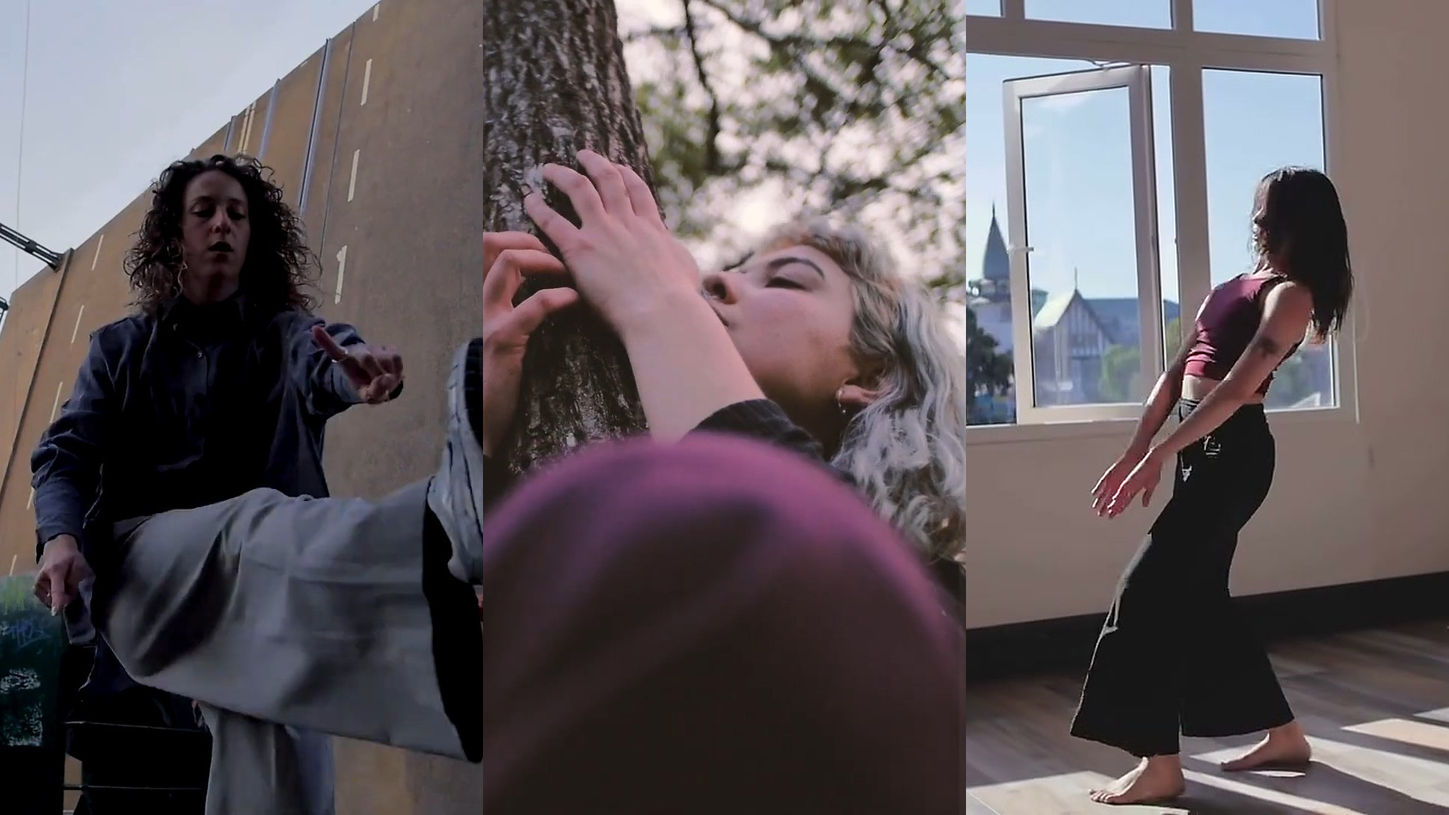
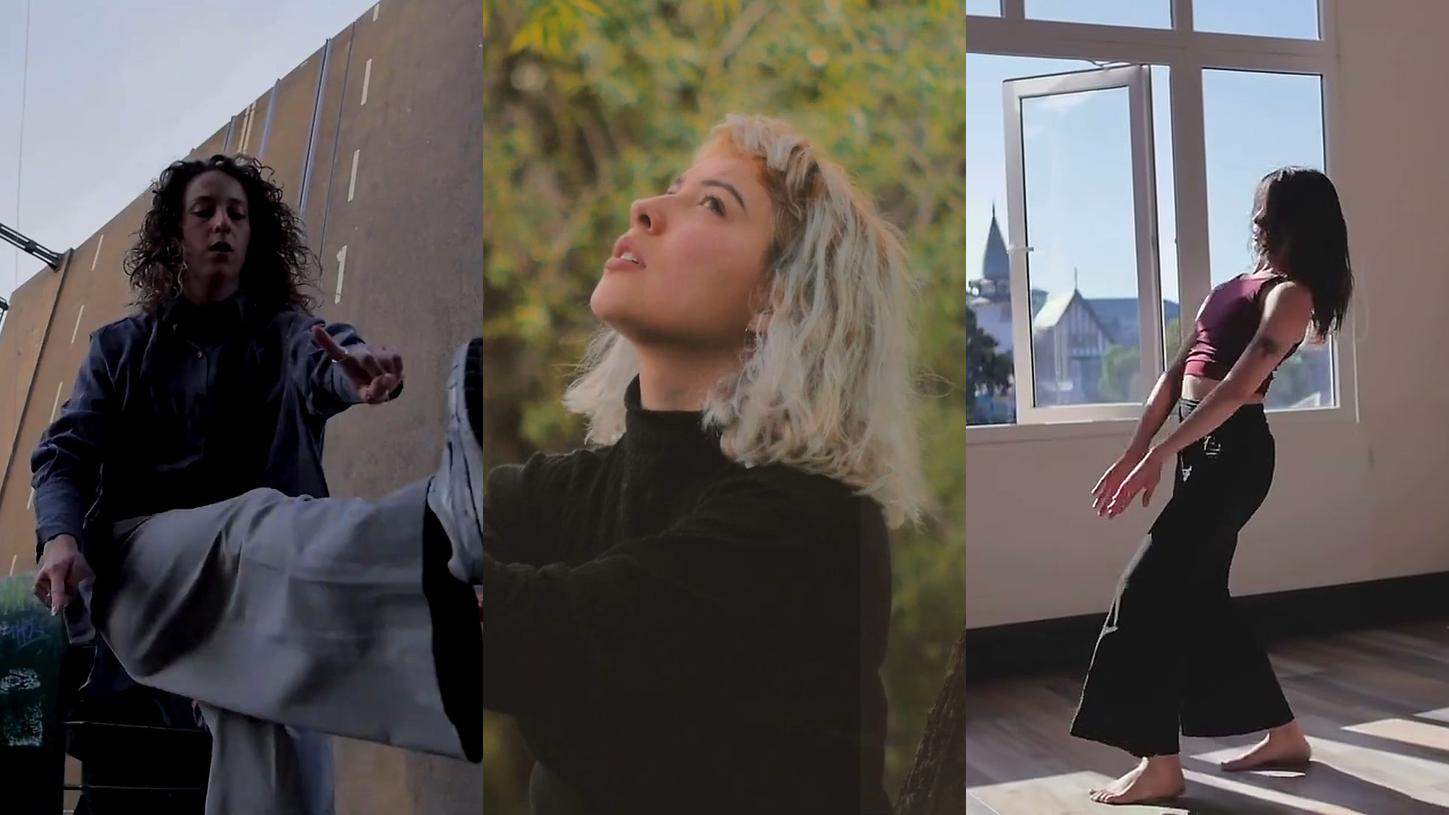
The Session: portada sin la mancha en primer plano y pensada para celular
- Portada: el panel de Nina pasa a un plano limpio, su cara a foco y sin
  la mancha desenfocada en primer plano.
- En el celular la portada ya no se recorta: los tres paneles (Marlie,
  Nina, Matilde) pasan uno a uno en fundido, cada uno a pantalla entera.
- Slide: la imagen de Nina con la mano en primer plano se cambia por la
  de ella tocando el arbol.

Changed region(s): [[0.3125, 0.0, 0.6875, 0.7944], [0.5938, 0.8556, 0.6562, 1.0], [0.3125, 0.8861, 0.3438, 0.9472]]

diff --git a/de/short-films/index.html b/de/short-films/index.html
@@ -14,7 +14,7 @@
 <link rel="preconnect" href="https://fonts.googleapis.com">
 <link rel="preconnect" href="https://fonts.gstatic.com" crossorigin>
 <link href="https://fonts.googleapis.com/css2?family=Jost:ital,wght@0,200;0,300;0,400;0,500;0,700;1,300&display=swap" rel="stylesheet">
-<link rel="stylesheet" href="../../style.css?v=107">
+<link rel="stylesheet" href="../../style.css?v=108">
 <script type="application/ld+json">[{"@type": "VideoObject", "name": "The Heart Is Not a Bomb", "description": "A group of rebels crosses through the building of the Ministry of Culture of Chile, while the former Minister Paulina Urrutia gives voice to a reflection on the function of art in society, suggesting that the artistic phenomenon allows us to recognize ourselves and activate a powerful internal force capable of transforming reality", "thumbnailUrl": "https://deusexmachinafilms.art/img/corazon.jpg", "uploadDate": "2025-11-27", "embedUrl": "https://www.youtube.com/embed/NNtd6buiv-U", "url": "https://deusexmachinafilms.art/de/short-films/#corazon", "publisher": {"@type": "Organization", "name": "dEUSeXmACHINA films", "url": "https://deusexmachinafilms.art/"}, "director": {"@type": "Person", "name": "Felipe Díaz Galarce"}, "inLanguage": "es", "duration": "PT14M44S"}, {"@type": "VideoObject", "name": "Explorers of La Redonda", "description": "In the small town of Puerto Octay, in southern Chile, every morning the students of La Redonda School begin their day with meditation. Their desire to learn through play and imagination leads them to create a magic potion that transports them to a natural sanctuary.", "thumbnailUrl": "https://deusexmachinafilms.art/img/exploradores.jpg", "uploadDate": "2025-03-03", "embedUrl": "https://www.youtube.com/embed/zlJKGHxcm4c", "url": "https://deusexmachinafilms.art/de/short-films/#exploradores", "publisher": {"@type": "Organization", "name": "dEUSeXmACHINA films", "url": "https://deusexmachinafilms.art/"}, "director": {"@type": "Person", "name": "Felipe Díaz Galarce"}, "inLanguage": "es", "duration": "PT9M6S"}, {"@type": "VideoObject", "name": "To Dwell", "description": "MORAR is an invitation to stay, to remain and to allow what is already happening to pass through us. We allow ourselves to be moved by the sacred, by the whispering silence of mystery; and then, the question arises, how much distance is there between Nature and us? Does it even exist?…", "thumbnailUrl": "https://deusexmachinafilms.art/img/morar.jpg", "uploadDate": "2025-02-24", "embedUrl": "https://www.youtube.com/embed/IFP798ZNQTM", "url": "https://deusexmachinafilms.art/de/short-films/#morar", "publisher": {"@type": "Organization", "name": "dEUSeXmACHINA films", "url": "https://deusexmachinafilms.art/"}, "director": {"@type": "Person", "name": "Felipe Díaz Galarce"}, "inLanguage": "es", "duration": "PT7M53S"}, {"@type": "VideoObject", "name": "Ahora Somos Nosotres", "description": "Three dancers awaken to new surroundings and venture into unknown territory among the natural and historic landmarks of the island of Chiloé, in southern Chile: a journey to find home, accompanied by the music of Pájaros Kiltros.", "thumbnailUrl": "https://deusexmachinafilms.art/img/nosotres.jpg", "uploadDate": "2023-02-14", "embedUrl": "https://player.vimeo.com/video/798903970", "url": "https://deusexmachinafilms.art/de/short-films/#ahora-somos-nosotres", "publisher": {"@type": "Organization", "name": "dEUSeXmACHINA films", "url": "https://deusexmachinafilms.art/"}, "director": {"@type": "Person", "name": "Felipe Díaz Galarce"}, "inLanguage": "es", "duration": "PT9M56S"}, {"@type": "VideoObject", "name": "Ecdysis: Actions for Shedding Skin. Liquefy", "description": "Short essay film about human transformation in the digital age. Recorded during the Covid 19 pandemic in Valdivia and Valparaiso, Chile, the film presents a group of humans dancing in nature and the city. They are the result of the virtual experiment of a group of stage researchers who sought to approach the ecdysis and metamorphosis of insects, as a metaphor for the profound cultural transformation of society by integrating virtuality into everyday life, a questioning of the notion of presence. The voice-over of the process of how a butterfly is born intersects with another voice asking a series of questions about who we are and how we participate in society", "thumbnailUrl": "https://deusexmachinafilms.art/img/licuar.jpg", "uploadDate": "2025-03-03", "embedUrl": "https://www.youtube.com/embed/FqOBFxX5uBc", "url": "https://deusexmachinafilms.art/de/short-films/#ecdisis-licuar", "publisher": {"@type": "Organization", "name": "dEUSeXmACHINA films", "url": "https://deusexmachinafilms.art/"}, "director": {"@type": "Person", "name": "Felipe Díaz Galarce"}, "inLanguage": "es", "duration": "PT9M19S"}, {"@type": "VideoObject", "name": "Escape", "description": "This documentary-style dance piece invites us to reflect on and address the dangers of free market capitalism, corrupt leadership, and COVID as a response to social revolution.", "thumbnailUrl": "https://deusexmachinafilms.art/img/escape.jpg", "uploadDate": "2025-03-03", "embedUrl": "https://www.youtube.com/embed/EfCxbCzm9sE", "url": "https://deusexmachinafilms.art/de/short-films/#escape", "publisher": {"@type": "Organization", "name": "dEUSeXmACHINA films", "url": "https://deusexmachinafilms.art/"}, "director": {"@type": "Person", "name": "Felipe Díaz Galarce"}, "inLanguage": "es", "duration": "PT14M18S"}, {"@type": "VideoObject", "name": "misoginia Pandora", "description": "Pandora is trapped in the city, she wants to free herself from the Box of All Evils. Pandora reflects on consumer society, she decides to break the normal course of the spaces where goods are traded, her weapon is her body, her dance.", "thumbnailUrl": "https://deusexmachinafilms.art/img/pandora.jpg", "uploadDate": "2025-03-03", "embedUrl": "https://www.youtube.com/embed/5uiqnHk1Ly8", "url": "https://deusexmachinafilms.art/de/short-films/#pandora", "publisher": {"@type": "Organization", "name": "dEUSeXmACHINA films", "url": "https://deusexmachinafilms.art/"}, "director": {"@type": "Person", "name": "Felipe Díaz Galarce"}, "inLanguage": "es", "duration": "PT4M46S"}]</script>
 <link rel="alternate" hreflang="en" href="https://deusexmachinafilms.art/short-films/">
 <link rel="alternate" hreflang="de" href="https://deusexmachinafilms.art/de/short-films/">
@@ -205,7 +205,7 @@
 </main>
 
 <footer>© <span id="year">2026</span> dEUSeXmACHINA Films — Chile · Österreich</footer>
-<script src="../../traduccion.js?v=107"></script>
-<script src="../../script.js?v=107"></script>
+<script src="../../traduccion.js?v=108"></script>
+<script src="../../script.js?v=108"></script>
 </body>
 </html>

diff --git a/short-films/index.html b/short-films/index.html
@@ -14,7 +14,7 @@
 <link rel="preconnect" href="https://fonts.googleapis.com">
 <link rel="preconnect" href="https://fonts.gstatic.com" crossorigin>
 <link href="https://fonts.googleapis.com/css2?family=Jost:ital,wght@0,200;0,300;0,400;0,500;0,700;1,300&display=swap" rel="stylesheet">
-<link rel="stylesheet" href="../style.css?v=107">
+<link rel="stylesheet" href="../style.css?v=108">
 <script type="application/ld+json">[{"@type": "VideoObject", "name": "The Heart Is Not a Bomb", "description": "A group of rebels crosses through the building of the Ministry of Culture of Chile, while the former Minister Paulina Urrutia gives voice to a reflection on the function of art in society, suggesting that the artistic phenomenon allows us to recognize ourselves and activate a powerful internal force capable of transforming reality", "thumbnailUrl": "https://deusexmachinafilms.art/img/corazon.jpg", "uploadDate": "2025-11-27", "embedUrl": "https://www.youtube.com/embed/NNtd6buiv-U", "url": "https://deusexmachinafilms.art/short-films/#corazon", "publisher": {"@type": "Organization", "name": "dEUSeXmACHINA films", "url": "https://deusexmachinafilms.art/"}, "director": {"@type": "Person", "name": "Felipe Díaz Galarce"}, "inLanguage": "es", "duration": "PT14M44S"}, {"@type": "VideoObject", "name": "Explorers of La Redonda", "description": "In the small town of Puerto Octay, in southern Chile, every morning the students of La Redonda School begin their day with meditation. Their desire to learn through play and imagination leads them to create a magic potion that transports them to a natural sanctuary.", "thumbnailUrl": "https://deusexmachinafilms.art/img/exploradores.jpg", "uploadDate": "2025-03-03", "embedUrl": "https://www.youtube.com/embed/zlJKGHxcm4c", "url": "https://deusexmachinafilms.art/short-films/#exploradores", "publisher": {"@type": "Organization", "name": "dEUSeXmACHINA films", "url": "https://deusexmachinafilms.art/"}, "director": {"@type": "Person", "name": "Felipe Díaz Galarce"}, "inLanguage": "es", "duration": "PT9M6S"}, {"@type": "VideoObject", "name": "To Dwell", "description": "MORAR is an invitation to stay, to remain and to allow what is already happening to pass through us. We allow ourselves to be moved by the sacred, by the whispering silence of mystery; and then, the question arises, how much distance is there between Nature and us? Does it even exist?…", "thumbnailUrl": "https://deusexmachinafilms.art/img/morar.jpg", "uploadDate": "2025-02-24", "embedUrl": "https://www.youtube.com/embed/IFP798ZNQTM", "url": "https://deusexmachinafilms.art/short-films/#morar", "publisher": {"@type": "Organization", "name": "dEUSeXmACHINA films", "url": "https://deusexmachinafilms.art/"}, "director": {"@type": "Person", "name": "Felipe Díaz Galarce"}, "inLanguage": "es", "duration": "PT7M53S"}, {"@type": "VideoObject", "name": "Ahora Somos Nosotres", "description": "Three dancers awaken to new surroundings and venture into unknown territory among the natural and historic landmarks of the island of Chiloé, in southern Chile: a journey to find home, accompanied by the music of Pájaros Kiltros.", "thumbnailUrl": "https://deusexmachinafilms.art/img/nosotres.jpg", "uploadDate": "2023-02-14", "embedUrl": "https://player.vimeo.com/video/798903970", "url": "https://deusexmachinafilms.art/short-films/#ahora-somos-nosotres", "publisher": {"@type": "Organization", "name": "dEUSeXmACHINA films", "url": "https://deusexmachinafilms.art/"}, "director": {"@type": "Person", "name": "Felipe Díaz Galarce"}, "inLanguage": "es", "duration": "PT9M56S"}, {"@type": "VideoObject", "name": "Ecdysis: Actions for Shedding Skin. Liquefy", "description": "Short essay film about human transformation in the digital age. Recorded during the Covid 19 pandemic in Valdivia and Valparaiso, Chile, the film presents a group of humans dancing in nature and the city. They are the result of the virtual experiment of a group of stage researchers who sought to approach the ecdysis and metamorphosis of insects, as a metaphor for the profound cultural transformation of society by integrating virtuality into everyday life, a questioning of the notion of presence. The voice-over of the process of how a butterfly is born intersects with another voice asking a series of questions about who we are and how we participate in society", "thumbnailUrl": "https://deusexmachinafilms.art/img/licuar.jpg", "uploadDate": "2025-03-03", "embedUrl": "https://www.youtube.com/embed/FqOBFxX5uBc", "url": "https://deusexmachinafilms.art/short-films/#ecdisis-licuar", "publisher": {"@type": "Organization", "name": "dEUSeXmACHINA films", "url": "https://deusexmachinafilms.art/"}, "director": {"@type": "Person", "name": "Felipe Díaz Galarce"}, "inLanguage": "es", "duration": "PT9M19S"}, {"@type": "VideoObject", "name": "Escape", "description": "This documentary-style dance piece invites us to reflect on and address the dangers of free market capitalism, corrupt leadership, and COVID as a response to social revolution.", "thumbnailUrl": "https://deusexmachinafilms.art/img/escape.jpg", "uploadDate": "2025-03-03", "embedUrl": "https://www.youtube.com/embed/EfCxbCzm9sE", "url": "https://deusexmachinafilms.art/short-films/#escape", "publisher": {"@type": "Organization", "name": "dEUSeXmACHINA films", "url": "https://deusexmachinafilms.art/"}, "director": {"@type": "Person", "name": "Felipe Díaz Galarce"}, "inLanguage": "es", "duration": "PT14M18S"}, {"@type": "VideoObject", "name": "misoginia Pandora", "description": "Pandora is trapped in the city, she wants to free herself from the Box of All Evils. Pandora reflects on consumer society, she decides to break the normal course of the spaces where goods are traded, her weapon is her body, her dance.", "thumbnailUrl": "https://deusexmachinafilms.art/img/pandora.jpg", "uploadDate": "2025-03-03", "embedUrl": "https://www.youtube.com/embed/5uiqnHk1Ly8", "url": "https://deusexmachinafilms.art/short-films/#pandora", "publisher": {"@type": "Organization", "name": "dEUSeXmACHINA films", "url": "https://deusexmachinafilms.art/"}, "director": {"@type": "Person", "name": "Felipe Díaz Galarce"}, "inLanguage": "es", "duration": "PT4M46S"}]</script>
 <link rel="alternate" hreflang="en" href="https://deusexmachinafilms.art/short-films/">
 <link rel="alternate" hreflang="de" href="https://deusexmachinafilms.art/de/short-films/">
@@ -204,7 +204,7 @@
 </main>
 
 <footer>© <span id="year">2026</span> dEUSeXmACHINA Films — Chile · Austria</footer>
-<script src="../traduccion.js?v=107"></script>
-<script src="../script.js?v=107"></script>
+<script src="../traduccion.js?v=108"></script>
+<script src="../script.js?v=108"></script>
 </body>
 </html>

diff --git a/de/the-session/index.html b/de/the-session/index.html
@@ -19,7 +19,7 @@
 <link rel="preconnect" href="https://fonts.googleapis.com">
 <link rel="preconnect" href="https://fonts.gstatic.com" crossorigin>
 <link href="https://fonts.googleapis.com/css2?family=Jost:ital,wght@0,200;0,300;0,400;0,500;0,700;1,300&display=swap" rel="stylesheet">
-<link rel="stylesheet" href="../../style.css?v=107">
+<link rel="stylesheet" href="../../style.css?v=108">
 <link rel="alternate" hreflang="en" href="https://deusexmachinafilms.art/the-session/">
 <link rel="alternate" hreflang="de" href="https://deusexmachinafilms.art/de/the-session/">
 <link rel="alternate" hreflang="x-default" href="https://deusexmachinafilms.art/the-session/">
@@ -51,7 +51,12 @@
 
   <!-- ============ PORTADA ============ -->
   <div class="ses-hero">
-    <img src="../../img/session/session-hero.jpg?v=2" alt="The Session — Marlie, Amsterdam · Nina, Valdivia · Matilde, Valparaíso" width="1920" height="1080">
+    <img src="../../img/session/session-hero.jpg?v=3" alt="The Session — Marlie, Amsterdam · Nina, Valdivia · Matilde, Valparaíso" width="1920" height="1080">
+    <div class="ses-hero-movil" aria-hidden="true">
+      <img src="../../img/session/session-hero-1.jpg?v=1" alt="">
+      <img src="../../img/session/session-hero-2.jpg?v=1" alt="">
+      <img src="../../img/session/session-hero-3.jpg?v=1" alt="">
+    </div>
     <div class="velo"></div>
     <div class="texto">
       <p class="kicker">Eine Praxis von dEUSeXmACHINA films</p>
@@ -74,7 +79,7 @@
     <div class="ses-paso">
       <div class="ses-fondos">
         <img src="../../img/session/marlie-encuentro.jpg" alt="A real person. A real place. A camera. Time. Presence." loading="lazy" width="1920" height="1080">
-        <img src="../../img/session/nina-02.jpg" alt="" loading="lazy">
+        <img src="../../img/session/nina-hero.jpg" alt="" loading="lazy">
         <img src="../../img/session/s/matilde-slide.jpg?v=1" alt="" loading="lazy">
         <img src="../../img/session/s/mix-1.jpg?v=1" alt="" loading="lazy">
         <img src="../../img/session/s/mix-2.jpg?v=1" alt="" loading="lazy">
@@ -198,7 +203,7 @@
 </main>
 
 <footer>© <span id="year">2026</span> dEUSeXmACHINA Films — Chile · Österreich</footer>
-<script src="../../traduccion.js?v=107"></script>
-<script src="../../script.js?v=107"></script>
+<script src="../../traduccion.js?v=108"></script>
+<script src="../../script.js?v=108"></script>
 </body>
 </html>

diff --git a/the-session/index.html b/the-session/index.html
@@ -19,7 +19,7 @@
 <link rel="preconnect" href="https://fonts.googleapis.com">
 <link rel="preconnect" href="https://fonts.gstatic.com" crossorigin>
 <link href="https://fonts.googleapis.com/css2?family=Jost:ital,wght@0,200;0,300;0,400;0,500;0,700;1,300&display=swap" rel="stylesheet">
-<link rel="stylesheet" href="../style.css?v=107">
+<link rel="stylesheet" href="../style.css?v=108">
 <link rel="alternate" hreflang="en" href="https://deusexmachinafilms.art/the-session/">
 <link rel="alternate" hreflang="de" href="https://deusexmachinafilms.art/de/the-session/">
 <link rel="alternate" hreflang="x-default" href="https://deusexmachinafilms.art/the-session/">
@@ -50,7 +50,12 @@
 
   <!-- ============ PORTADA ============ -->
   <div class="ses-hero">
-    <img src="../img/session/session-hero.jpg?v=2" alt="The Session — Marlie, Amsterdam · Nina, Valdivia · Matilde, Valparaíso" width="1920" height="1080">
+    <img src="../img/session/session-hero.jpg?v=3" alt="The Session — Marlie, Amsterdam · Nina, Valdivia · Matilde, Valparaíso" width="1920" height="1080">
+    <div class="ses-hero-movil" aria-hidden="true">
+      <img src="../img/session/session-hero-1.jpg?v=1" alt="">
+      <img src="../img/session/session-hero-2.jpg?v=1" alt="">
+      <img src="../img/session/session-hero-3.jpg?v=1" alt="">
+    </div>
     <div class="velo"></div>
     <div class="texto">
       <p class="kicker">A practice by dEUSeXmACHINA films</p>
@@ -73,7 +78,7 @@
     <div class="ses-paso">
       <div class="ses-fondos">
         <img src="../img/session/marlie-encuentro.jpg" alt="A real person. A real place. A camera. Time. Presence." loading="lazy" width="1920" height="1080">
-        <img src="../img/session/nina-02.jpg" alt="" loading="lazy">
+        <img src="../img/session/nina-hero.jpg" alt="" loading="lazy">
         <img src="../img/session/s/matilde-slide.jpg?v=1" alt="" loading="lazy">
         <img src="../img/session/s/mix-1.jpg?v=1" alt="" loading="lazy">
         <img src="../img/session/s/mix-2.jpg?v=1" alt="" loading="lazy">
@@ -197,7 +202,7 @@
 </main>
 
 <footer>© <span id="year">2026</span> dEUSeXmACHINA Films — Chile · Austria</footer>
-<script src="../traduccion.js?v=107"></script>
-<script src="../script.js?v=107"></script>
+<script src="../traduccion.js?v=108"></script>
+<script src="../script.js?v=108"></script>
 </body>
 </html>

diff --git a/style.css b/style.css
@@ -505,6 +505,17 @@ body.session main > section{padding:0;}
 /* --- portada a sangre --- */
 .ses-hero{position:relative; height:min(88vh,860px); min-height:460px; background:#000; overflow:hidden;}
 .ses-hero img{width:100%; height:100%; object-fit:cover; display:block; opacity:.9;}
+/* en el celular la portada no se recorta: pasan los tres paneles uno a uno */
+.ses-hero-movil{display:none;}
+@media (max-width:700px){
+  .ses-hero > img{display:none;}
+  .ses-hero-movil{display:block; position:absolute; inset:0;}
+  .ses-hero-movil img{position:absolute; inset:0; opacity:0; animation:ses-hero-movil 12s linear infinite;}
+  .ses-hero-movil img:nth-child(2){animation-delay:4s;}
+  .ses-hero-movil img:nth-child(3){animation-delay:8s;}
+}
+@keyframes ses-hero-movil{0%{opacity:0;} 5%{opacity:.9;} 33%{opacity:.9;} 38%{opacity:0;} 100%{opacity:0;}}
+@media (prefers-reduced-motion:reduce){ .ses-hero-movil img{animation:none;} .ses-hero-movil img:first-child{opacity:.9;} }
 .ses-hero .velo{
   position:absolute; inset:0;
   background:linear-gradient(to top,rgba(0,0,0,.82) 0%,rgba(0,0,0,.35) 45%,rgba(0,0,0,.28) 100%);

diff --git a/de/work-in-progress/index.html b/de/work-in-progress/index.html
@@ -14,7 +14,7 @@
 <link rel="preconnect" href="https://fonts.googleapis.com">
 <link rel="preconnect" href="https://fonts.gstatic.com" crossorigin>
 <link href="https://fonts.googleapis.com/css2?family=Jost:ital,wght@0,200;0,300;0,400;0,500;0,700;1,300&display=swap" rel="stylesheet">
-<link rel="stylesheet" href="../../style.css?v=107">
+<link rel="stylesheet" href="../../style.css?v=108">
 <link rel="alternate" hreflang="en" href="https://deusexmachinafilms.art/work-in-progress/">
 <link rel="alternate" hreflang="de" href="https://deusexmachinafilms.art/de/work-in-progress/">
 <link rel="alternate" hreflang="x-default" href="https://deusexmachinafilms.art/work-in-progress/">
@@ -134,7 +134,7 @@
 </main>
 
 <footer>© <span id="year">2026</span> dEUSeXmACHINA Films — Chile · Österreich</footer>
-<script src="../../traduccion.js?v=107"></script>
-<script src="../../script.js?v=107"></script>
+<script src="../../traduccion.js?v=108"></script>
+<script src="../../script.js?v=108"></script>
 </body>
 </html>

diff --git a/de/collaborations/index.html b/de/collaborations/index.html
@@ -14,7 +14,7 @@
 <link rel="preconnect" href="https://fonts.googleapis.com">
 <link rel="preconnect" href="https://fonts.gstatic.com" crossorigin>
 <link href="https://fonts.googleapis.com/css2?family=Jost:ital,wght@0,200;0,300;0,400;0,500;0,700;1,300&display=swap" rel="stylesheet">
-<link rel="stylesheet" href="../../style.css?v=107">
+<link rel="stylesheet" href="../../style.css?v=108">
 <link rel="alternate" hreflang="en" href="https://deusexmachinafilms.art/collaborations/">
 <link rel="alternate" hreflang="de" href="https://deusexmachinafilms.art/de/collaborations/">
 <link rel="alternate" hreflang="x-default" href="https://deusexmachinafilms.art/collaborations/">
@@ -187,7 +187,7 @@
 </main>
 
 <footer>© <span id="year">2026</span> dEUSeXmACHINA Films — Chile · Österreich</footer>
-<script src="../../traduccion.js?v=107"></script>
-<script src="../../script.js?v=107"></script>
+<script src="../../traduccion.js?v=108"></script>
+<script src="../../script.js?v=108"></script>
 </body>
 </html>

diff --git a/de/music-video/index.html b/de/music-video/index.html
@@ -14,7 +14,7 @@
 <link rel="preconnect" href="https://fonts.googleapis.com">
 <link rel="preconnect" href="https://fonts.gstatic.com" crossorigin>
 <link href="https://fonts.googleapis.com/css2?family=Jost:ital,wght@0,200;0,300;0,400;0,500;0,700;1,300&display=swap" rel="stylesheet">
-<link rel="stylesheet" href="../../style.css?v=107">
+<link rel="stylesheet" href="../../style.css?v=108">
 <link rel="alternate" hreflang="en" href="https://deusexmachinafilms.art/music-video/">
 <link rel="alternate" hreflang="de" href="https://deusexmachinafilms.art/de/music-video/">
 <link rel="alternate" hreflang="x-default" href="https://deusexmachinafilms.art/music-video/">
@@ -118,7 +118,7 @@
 </main>
 
 <footer>© <span id="year">2026</span> dEUSeXmACHINA Films — Chile · Österreich</footer>
-<script src="../../traduccion.js?v=107"></script>
-<script src="../../script.js?v=107"></script>
+<script src="../../traduccion.js?v=108"></script>
+<script src="../../script.js?v=108"></script>
 </body>
 </html>

diff --git a/work-in-progress/index.html b/work-in-progress/index.html
@@ -14,7 +14,7 @@
 <link rel="preconnect" href="https://fonts.googleapis.com">
 <link rel="preconnect" href="https://fonts.gstatic.com" crossorigin>
 <link href="https://fonts.googleapis.com/css2?family=Jost:ital,wght@0,200;0,300;0,400;0,500;0,700;1,300&display=swap" rel="stylesheet">
-<link rel="stylesheet" href="../style.css?v=107">
+<link rel="stylesheet" href="../style.css?v=108">
 <link rel="alternate" hreflang="en" href="https://deusexmachinafilms.art/work-in-progress/">
 <link rel="alternate" hreflang="de" href="https://deusexmachinafilms.art/de/work-in-progress/">
 <link rel="alternate" hreflang="x-default" href="https://deusexmachinafilms.art/work-in-progress/">
@@ -133,7 +133,7 @@
 </main>
 
 <footer>© <span id="year">2026</span> dEUSeXmACHINA Films — Chile · Austria</footer>
-<script src="../traduccion.js?v=107"></script>
-<script src="../script.js?v=107"></script>
+<script src="../traduccion.js?v=108"></script>
+<script src="../script.js?v=108"></script>
 </body>
 </html>

diff --git a/de/about-us/index.html b/de/about-us/index.html
@@ -14,7 +14,7 @@
 <link rel="preconnect" href="https://fonts.googleapis.com">
 <link rel="preconnect" href="https://fonts.gstatic.com" crossorigin>
 <link href="https://fonts.googleapis.com/css2?family=Jost:ital,wght@0,200;0,300;0,400;0,500;0,700;1,300&display=swap" rel="stylesheet">
-<link rel="stylesheet" href="../../style.css?v=107">
+<link rel="stylesheet" href="../../style.css?v=108">
 <link rel="alternate" hreflang="en" href="https://deusexmachinafilms.art/about-us/">
 <link rel="alternate" hreflang="de" href="https://deusexmachinafilms.art/de/about-us/">
 <link rel="alternate" hreflang="x-default" href="https://deusexmachinafilms.art/about-us/">
@@ -101,7 +101,7 @@
 </main>
 
 <footer>© <span id="year">2026</span> dEUSeXmACHINA Films — Chile · Österreich</footer>
-<script src="../../traduccion.js?v=107"></script>
-<script src="../../script.js?v=107"></script>
+<script src="../../traduccion.js?v=108"></script>
+<script src="../../script.js?v=108"></script>
 </body>
 </html>

diff --git a/de/contacts/index.html b/de/contacts/index.html
@@ -14,7 +14,7 @@
 <link rel="preconnect" href="https://fonts.googleapis.com">
 <link rel="preconnect" href="https://fonts.gstatic.com" crossorigin>
 <link href="https://fonts.googleapis.com/css2?family=Jost:ital,wght@0,200;0,300;0,400;0,500;0,700;1,300&display=swap" rel="stylesheet">
-<link rel="stylesheet" href="../../style.css?v=107">
+<link rel="stylesheet" href="../../style.css?v=108">
 <link rel="alternate" hreflang="en" href="https://deusexmachinafilms.art/contacts/">
 <link rel="alternate" hreflang="de" href="https://deusexmachinafilms.art/de/contacts/">
 <link rel="alternate" hreflang="x-default" href="https://deusexmachinafilms.art/contacts/">
@@ -57,7 +57,7 @@
 </main>
 
 <footer>© <span id="year">2026</span> dEUSeXmACHINA Films — Chile · Österreich</footer>
-<script src="../../traduccion.js?v=107"></script>
-<script src="../../script.js?v=107"></script>
+<script src="../../traduccion.js?v=108"></script>
+<script src="../../script.js?v=108"></script>
 </body>
 </html>

diff --git a/collaborations/index.html b/collaborations/index.html
@@ -14,7 +14,7 @@
 <link rel="preconnect" href="https://fonts.googleapis.com">
 <link rel="preconnect" href="https://fonts.gstatic.com" crossorigin>
 <link href="https://fonts.googleapis.com/css2?family=Jost:ital,wght@0,200;0,300;0,400;0,500;0,700;1,300&display=swap" rel="stylesheet">
-<link rel="stylesheet" href="../style.css?v=107">
+<link rel="stylesheet" href="../style.css?v=108">
 <link rel="alternate" hreflang="en" href="https://deusexmachinafilms.art/collaborations/">
 <link rel="alternate" hreflang="de" href="https://deusexmachinafilms.art/de/collaborations/">
 <link rel="alternate" hreflang="x-default" href="https://deusexmachinafilms.art/collaborations/">
@@ -186,7 +186,7 @@
 </main>
 
 <footer>© <span id="year">2026</span> dEUSeXmACHINA Films — Chile · Austria</footer>
-<script src="../traduccion.js?v=107"></script>
-<script src="../script.js?v=107"></script>
+<script src="../traduccion.js?v=108"></script>
+<script src="../script.js?v=108"></script>
 </body>
 </html>
